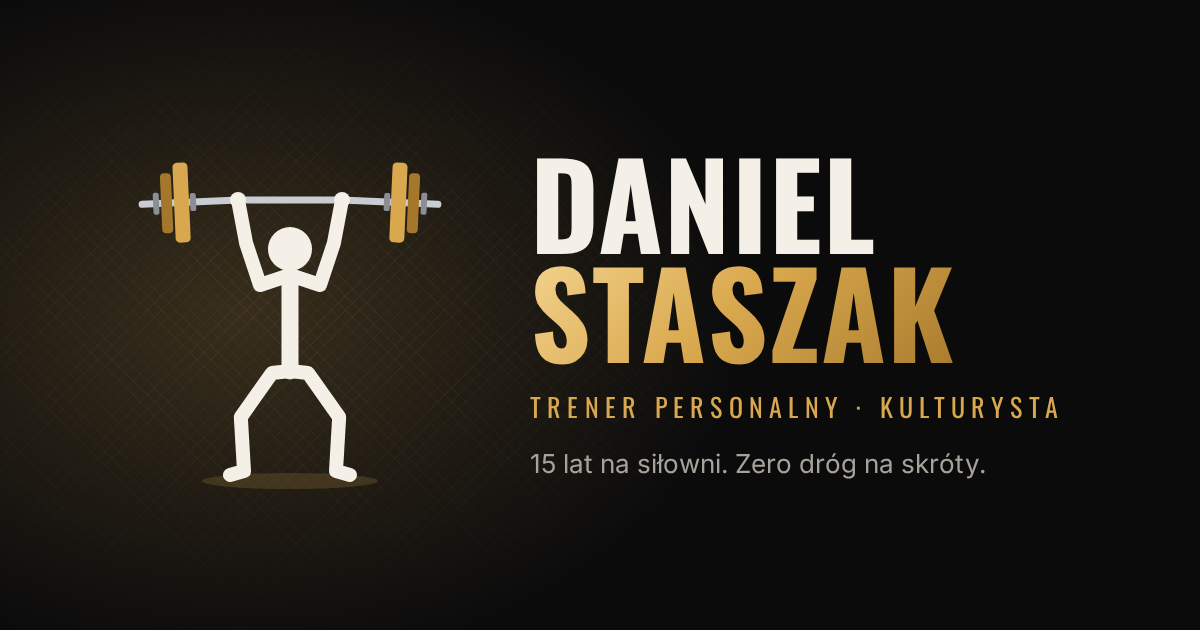
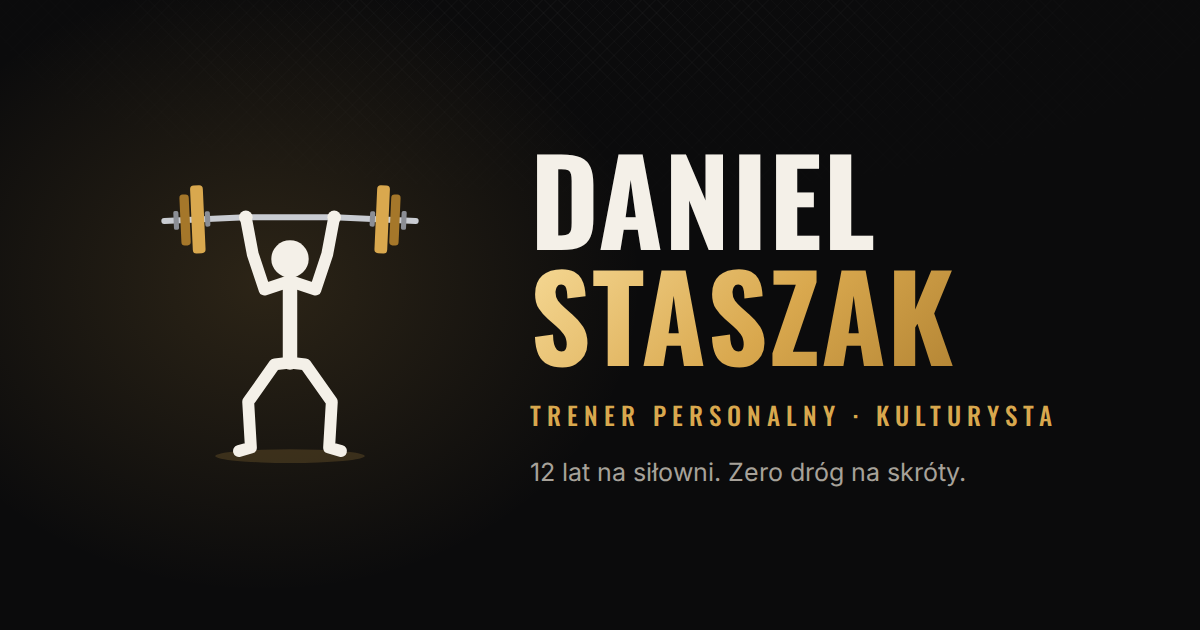
Update to 12 years at the gym and add YouTube channel link
Bio, stats tile, meta descriptions and the link-preview image now say
12 years; the image is re-rendered from the site's own lifter figure and
its URL is versioned so messengers refetch it. YouTube icon and card
point to @DanielStaszak99.

Claude-Session: https://claude.ai/code/session_01WFAUgvWzXAWfGJ8ntKrJcm

diff --git a/index.html b/index.html
@@ -4,7 +4,7 @@
   <meta charset="utf-8">
   <meta name="viewport" content="width=device-width, initial-scale=1, viewport-fit=cover">
   <title>Daniel Staszak — Trener personalny</title>
-  <meta name="description" content="Daniel Staszak — trener personalny i kulturysta. 15 lat na siłowni. Prowadzenie online, treningi personalne 1:1 i konsultacje.">
+  <meta name="description" content="Daniel Staszak — trener personalny i kulturysta. 12 lat na siłowni. Prowadzenie online, treningi personalne 1:1 i konsultacje.">
   <meta name="theme-color" content="#0b0b0c">
   <meta name="color-scheme" content="dark">
 
@@ -16,9 +16,9 @@
   <meta property="og:type" content="website">
   <meta property="og:locale" content="pl_PL">
   <meta property="og:title" content="Daniel Staszak — Trener personalny">
-  <meta property="og:description" content="15 lat na siłowni. Prowadzenie online, treningi 1:1, konsultacje.">
+  <meta property="og:description" content="12 lat na siłowni. Prowadzenie online, treningi 1:1, konsultacje.">
   <meta property="og:url" content="https://danielstaszak.pl/">
-  <meta property="og:image" content="https://danielstaszak.pl/assets/img/og-image.png">
+  <meta property="og:image" content="https://danielstaszak.pl/assets/img/og-image.png?v=2">
   <meta property="og:image:alt" content="Daniel Staszak — trener personalny">
   <meta name="twitter:card" content="summary_large_image">
 
@@ -65,7 +65,7 @@
 
       <h1 class="name"><span id="firstName">Daniel</span> <span class="name__accent" id="lastName">Staszak</span></h1>
       <p class="role" id="role">Trener personalny · Kulturysta</p>
-      <p class="bio" id="bio">15 lat na siłowni. Zjadłem na niej zęby — teraz pomagam Ci zbudować formę bez dróg na skróty.</p>
+      <p class="bio" id="bio">12 lat na siłowni. Zjadłem na niej zęby — teraz pomagam Ci zbudować formę bez dróg na skróty.</p>
 
       <ul class="socials" id="socials" aria-label="Media społecznościowe"></ul>
     </section>

diff --git a/assets/js/config.js b/assets/js/config.js
@@ -14,14 +14,14 @@ window.SITE_CONFIG = {
     lastName: "Staszak",
     handle: "@danielstaszak_",
     role: "Trener personalny · Kulturysta",
-    bio: "15 lat na siłowni. Zjadłem na niej zęby — teraz pomagam Ci zbudować formę bez dróg na skróty.",
+    bio: "12 lat na siłowni. Zjadłem na niej zęby — teraz pomagam Ci zbudować formę bez dróg na skróty.",
     // Ścieżka do zdjęcia, np. "assets/img/daniel.jpg". Puste = monogram „DS”.
     avatar: "assets/img/daniel.jpg",
     status: { show: true, text: "Przyjmuję nowych podopiecznych" },
   },
 
   stats: [
-    { value: "15+", label: "lat na siłowni" },
+    { value: "12+", label: "lat na siłowni" },
     { value: "1:1", label: "treningi personalne" },
     { value: "Online", label: "prowadzenie" },
   ],
@@ -29,7 +29,7 @@ window.SITE_CONFIG = {
   socials: [
     { icon: "instagram", label: "Instagram", url: "https://www.instagram.com/danielstaszak_/" },
     { icon: "tiktok", label: "TikTok", url: "https://www.tiktok.com/@danielstaszak_" },
-    { icon: "youtube", label: "YouTube", url: "#" },
+    { icon: "youtube", label: "YouTube", url: "https://www.youtube.com/@DanielStaszak99" },
     { icon: "facebook", label: "Facebook", url: "#" },
     { icon: "mail", label: "E-mail", url: "mailto:kontakt@danielstaszak.pl" },
   ],
@@ -65,7 +65,7 @@ window.SITE_CONFIG = {
       url: "https://www.instagram.com/danielstaszak_/",
     },
     { title: "TikTok", subtitle: "@danielstaszak_ · krótkie porady treningowe", icon: "tiktok", url: "https://www.tiktok.com/@danielstaszak_" },
-    { title: "YouTube", subtitle: "Pełne treningi i vlogi", icon: "youtube", url: "#" },
+    { title: "YouTube", subtitle: "@DanielStaszak99 · pełne treningi i vlogi", icon: "youtube", url: "https://www.youtube.com/@DanielStaszak99" },
 
     { type: "heading", text: "Kontakt" },
     {
